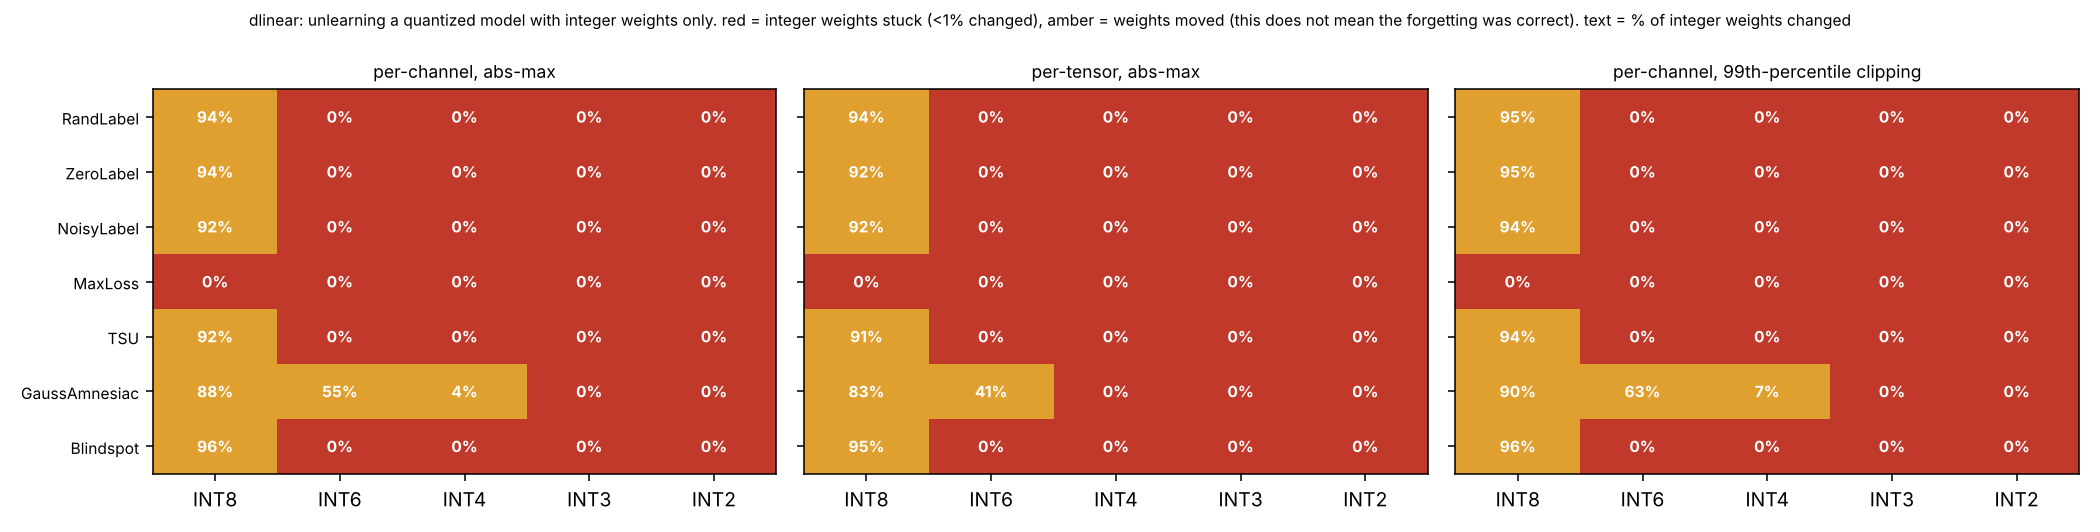
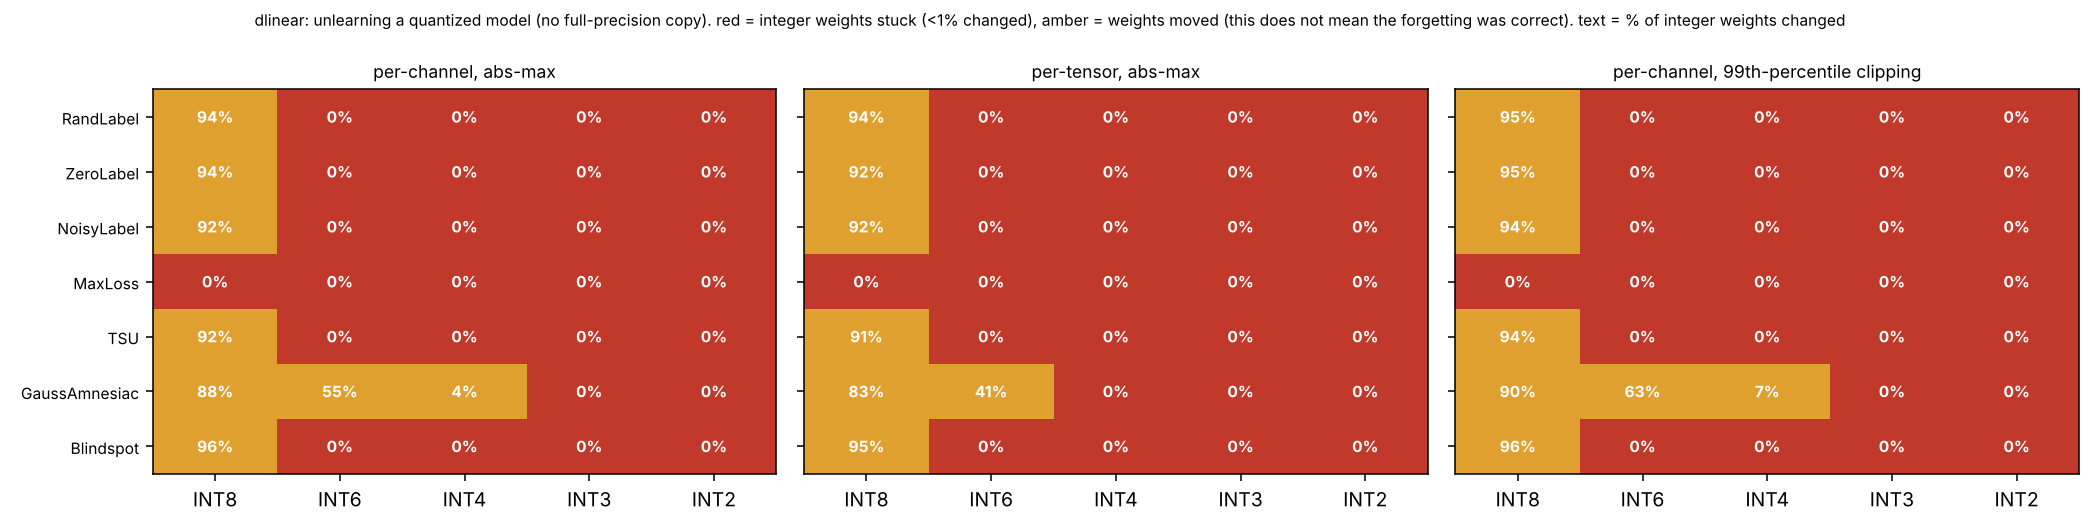
Rewrite README and results in plain words; add gaps document; rename code option
Claude-Session: https://claude.ai/code/session_01HaKQit1A86wBUSbgTCjcLp

Changed region(s): [[0.1238, 0.0301, 0.8976, 0.0602]]

diff --git a/src/unlearn.py b/src/unlearn.py
@@ -3,7 +3,7 @@ import config as C
 from .models import qlinears, make_model
 from .quantize import project
 
-def unlearn(m0, method, hp, D, arch, integer_only, seed):
+def unlearn(m0, method, hp, D, arch, quantized, seed):
     """Time-series unlearning methods, client 10 = forget set, the other 9 clients = retain set. hp = learning rate (noise level for GaussAmnesiac). Adam, 400 steps, batch 64.
       RandLabel      forget windows trained toward random targets, plus the retain loss                      (TS-Unlearn family of label-based baselines)
       ZeroLabel      forget windows trained toward zeros, plus the retain loss                               (same family)
@@ -12,10 +12,10 @@ def unlearn(m0, method, hp, D, arch, integer_only, seed):
       TSU            TS-Unlearn dual objective: 0.5 x retain loss + 0.5 x loss toward noisy forget targets   (fixed Pareto weight 0.5)
       GaussAmnesiac  Gaussian noise added to the weights (relative std = hp), then 200 retain-only repair steps
       Blindspot      distillation: stay close to the original model on retain windows, copy an untrained network on forget windows
-    integer_only=True : only the integer Linear weights may change; after every step they are snapped back onto the integer grid (scales fixed); biases / norms frozen.
-    integer_only=False: full-precision model, all parameters train."""
+    quantized=True : the model is the deployed quantized one and no full-precision copy exists. Only its integer Linear weights may change; after every step they are snapped back onto the integer grid (scales fixed); biases / norms frozen.
+    quantized=False: full-precision model (reference only), all parameters train."""
     m = copy.deepcopy(m0); torch.manual_seed(seed + 7); lr = 3e-4 if method == "GaussAmnesiac" else hp
-    params = [l.weight for l in qlinears(m)] if integer_only else list(m.parameters())
+    params = [l.weight for l in qlinears(m)] if quantized else list(m.parameters())
     for p in m.parameters(): p.requires_grad_(any(p is q for q in params))
     teacher = None
     if method == "Blindspot": torch.manual_seed(1000 + seed); teacher = make_model(arch).eval(); torch.manual_seed(seed + 7)
@@ -23,7 +23,7 @@ def unlearn(m0, method, hp, D, arch, integer_only, seed):
     if method == "GaussAmnesiac":
         with torch.no_grad():
             for p in params: p.add_(torch.randn_like(p) * hp * p.std())
-            if integer_only: project(m)
+            if quantized: project(m)
         steps = 200
     opt = torch.optim.Adam(params, lr); q0 = [l.weight.detach().clone() for l in qlinears(m0)]; orig = copy.deepcopy(m0).eval()
     for st in range(steps):
@@ -41,6 +41,6 @@ def unlearn(m0, method, hp, D, arch, integer_only, seed):
             loss = F.mse_loss(m(xr), to_r) + lret + F.mse_loss(m(xf), to_f)
         else: raise ValueError(method)
         opt.zero_grad(); loss.backward(); torch.nn.utils.clip_grad_norm_(params, 1.0); opt.step()
-        if integer_only: project(m)
+        if quantized: project(m)
     changed = sum((a != l.weight.detach()).sum().item() for a, l in zip(q0, qlinears(m))) / sum(a.numel() for a in q0)
     return m.eval(), changed

diff --git a/steps/04_quantize_unlearn.py b/steps/04_quantize_unlearn.py
@@ -1,4 +1,4 @@
-"""Train (done) -> quantize -> unlearn the quantized model using only its integer weights -> check.
+"""Train (done) -> quantize -> unlearn the quantized model (no full-precision copy) -> check.
    For each architecture, seed, quantization technique and bit width: quantize the original and the retrained model identically, run every unlearning method once
    (one fixed setting, no tuning), judge the model after the last step against the equally quantized retrained model. Full precision is run the same way as a reference."""
 import sys, pathlib; sys.path.insert(0, str(pathlib.Path(__file__).resolve().parents[1]))
@@ -15,9 +15,9 @@ w = csv.DictWriter(out, fieldnames=["arch", "seed", "tech", "bits", "method", "h
 def load(name): m = make_model(a.arch); m.load_state_dict(torch.load(C.CKPT / a.arch / f"seed{a.seed}_{name}.pt")); return m.eval()
 orig, retrained = load("original"), load("retrained")
 conds = [("fp", 32, orig, retrained, False)] + [(t, b, quantize(orig, t, b), quantize(retrained, t, b), True) for t in C.QUANT for b in C.BITS]
-for tech, bits, m0, g, integer_only in conds:
+for tech, bits, m0, g, quantized in conds:
     ref = reference(m0, g, D)
     for method, hp in C.METHODS.items():
-        m, ch = unlearn(m0, method, hp, D, a.arch, integer_only, a.seed); e = evaluate(m, ref, D)
-        w.writerow(dict(arch=a.arch, seed=a.seed, tech=tech, bits=bits, method=method, hp=hp, changed=ch if integer_only else "", gap=ref["gap"], **e)); out.flush()
+        m, ch = unlearn(m0, method, hp, D, a.arch, quantized, a.seed); e = evaluate(m, ref, D)
+        w.writerow(dict(arch=a.arch, seed=a.seed, tech=tech, bits=bits, method=method, hp=hp, changed=ch if quantized else "", gap=ref["gap"], **e)); out.flush()
     print(f"[{time.time()-t0:.0f}s] {a.arch} seed {a.seed} {tech} {bits}-bit done", flush=True)

diff --git a/steps/05_report.py b/steps/05_report.py
@@ -34,6 +34,6 @@ for arch in C.ARCHS:
         for i in range(len(meths)):
             for j in range(len(C.BITS)): ax.text(j, i, T[i][j], ha="center", va="center", color="white", fontsize=8, fontweight="bold")
         ax.set_xticks(range(len(C.BITS))); ax.set_xticklabels([f"INT{b}" for b in sorted(C.BITS, reverse=True)]); ax.set_yticks(range(len(meths))); ax.set_yticklabels(meths, fontsize=8); ax.set_title(C.QUANT[tech][0], fontsize=9)
-    fig.suptitle(f"{arch}: unlearning a quantized model with integer weights only. red = integer weights stuck (<1% changed), amber = weights moved (this does not mean the forgetting was correct). text = % of integer weights changed", fontsize=8)
+    fig.suptitle(f"{arch}: unlearning a quantized model (no full-precision copy). red = integer weights stuck (<1% changed), amber = weights moved (this does not mean the forgetting was correct). text = % of integer weights changed", fontsize=8)
     plt.tight_layout(); plt.savefig(C.FIG / f"{arch}.png", dpi=140); plt.close()
 open(C.RES / "RESULTS_TABLES.md", "w").write("\n".join(md)); print("\n".join(md[:60]))

diff --git a/config.py b/config.py
@@ -16,7 +16,7 @@ SEEDS = {"dlinear": [0, 1, 2], "mlp": [0, 1], "patchtst": [0]}        # MLP and 
 # ---- quantization: post-training, weights of every Linear layer, signed integers ----
 BITS = [8, 6, 4, 3, 2]
 QUANT = {"channel": ("per-channel, abs-max", False, None),                    # standard
-         "tensor": ("per-tensor, abs-max", True, None),                       # integer-only hardware style (one scale per layer)
+         "tensor": ("per-tensor, abs-max", True, None),                       # one scale per layer, common on small hardware
          "clip": ("per-channel, 99th-percentile clipping", False, 0.99)}      # outlier-clipping calibration used for time-series PTQ
 
 # ---- unlearning: time-series methods only, ONE fixed setting each (no search, no tuning), judged after the last step ----

diff --git a/docs/RESULTS.md b/docs/RESULTS.md
@@ -1,16 +1,19 @@
-# Results
+# Result
 
-Setup in `DESIGN.md`. Pipeline: train in full precision, quantize after training (3 techniques x INT8/6/4/3/2), unlearn the quantized model using only its integer weights, check. Seven time-series unlearning methods, each run once with one fixed setting, no tuning. DLinear 3 seeds, MLP 2 seeds, PatchTST 1 seed.
-Full tables: `../results/RESULTS_TABLES.md`. Per-run data: `../results/raw_*.csv`. Figures: `../figures/<model>.png`.
+## What we tried
+Take a time-series forecasting model, quantize it, then ask it to forget one client's data, using the unlearning methods from the time-series literature. No full-precision copy is available and no retraining from scratch is allowed. This is the situation of a model that is already deployed on a device.
 
-## What the data shows
-1. **Below INT8, the unlearning methods leave the integer weights unchanged.** At INT3 and INT2 all 7 methods leave every integer weight unchanged (0% changed), for all three quantization techniques and all three models. At INT4 and INT6, 6 of 7 methods leave the weights unchanged (INT4 per-tensor: 7 of 7 on DLinear and MLP). The cause is that a standard-size update is smaller than half a quantization step and is rounded back every step.
-2. **The one exception is Gaussian Amnesiac at INT6 and INT4.** Its integer weights do change, but only because the method adds noise to the weights itself; the repair steps that follow cannot move them. Its forget score stays near 0 (0.00 to 0.13), so it moved without forgetting.
-3. **INT8 is different:** 6 of 7 methods change 55 to 96% of the integer weights. MaxLoss stays at 0% because its fixed learning rate (1e-4) is below half a bin.
-4. **In full precision, none of the 7 methods meets the strict forgetting rule with these fixed settings** (forget score 0.8 to 1.2 and retain error at most 10% worse). They overshoot (RandLabel, ZeroLabel, MaxLoss, Blindspot), undershoot (NoisyLabel, TSU, Gaussian Amnesiac) or damage retain data. So moving at INT8 does not mean unlearning correctly.
+3 models (DLinear, MLP, PatchTST) x 3 ways of quantizing x 5 sizes (INT8, 6, 4, 3, 2) x 7 unlearning methods, each run once with one fixed setting. Setup and rules fixed in advance: `DESIGN.md`.
 
-## Table: methods stuck, per quantization technique and bit width
+## What we found
+**Below INT8, the existing time-series unlearning methods do not change the quantized model at all, so it cannot forget.**
 
+- At INT3 and INT2, all 7 methods change 0% of the model's integer weights, for every way of quantizing and every model.
+- At INT4 and INT6, 6 of the 7 methods change 0% of the weights (INT4 per-tensor: 7 of 7 on DLinear and MLP). The seventh, Gaussian Amnesiac, moves weights only through the noise it adds itself, and it does not forget (forget score 0.00 to 0.13).
+- At INT8 the weights do move (6 of 7 methods change 55 to 96%), but no method reaches the forgetting target, and none does in full precision either with these settings.
+- The way of quantizing does not matter. The cause is that one unlearning update is smaller than half a quantization step, so rounding undoes it.
+
+## Table: methods that changed nothing (out of 7), per way of quantizing and size
 **dlinear** (methods stuck out of 7; stuck = fewer than 1% of the integer weights changed)
 
 | Quantization technique | INT8 | INT6 | INT4 | INT3 | INT2 |
@@ -35,8 +38,11 @@ Full tables: `../results/RESULTS_TABLES.md`. Per-run data: `../results/raw_*.csv
 | per-tensor, abs-max | 1/7 | 6/7 | 6/7 | 7/7 | 7/7 |
 | per-channel, 99th-percentile clipping | 1/7 | 6/7 | 6/7 | 7/7 | 7/7 |
 
-## What this does and does not show
-- It shows: the time-series unlearning methods, used with fixed standard settings on a model quantized to INT6 or below, do not change the integer weights and so cannot unlearn. This holds across three models and three quantization techniques.
-- It does not show: that no setting can work. A different learning rate could produce bigger steps. The methods are my simplified re-implementations. The fixed settings are my choice.
-- It does not show that INT8 unlearning is correct: the methods move the weights but do not reach the forgetting target in full precision either.
-- One dataset, one forgotten client, simulated integer weights, 1 to 3 seeds.
+## What this supports
+See `GAPS.md`. In short: it supports the gap that no method exists to unlearn a quantized time-series model without a full-precision copy.
+
+## What this does not show
+- That no setting can ever work. A much larger learning rate can move the weights; we ran one fixed standard setting per method.
+- That INT8 unlearning is correct. The weights move, the forgetting target is not reached.
+- Results for other datasets, other forgotten clients, real hardware (the integers here are simulated), or methods outside the 7 tested.
+- The methods are our simplified versions of the papers. Seeds: DLinear 3, MLP 2, PatchTST 1.

diff --git a/docs/DESIGN.md b/docs/DESIGN.md
@@ -1,13 +1,13 @@
 # Design (written before the quantize-and-unlearn runs)
 
 ## Question
-If a time-series forecasting model has already been quantized to integers, can the unlearning methods used in the time-series unlearning literature remove one client's data using only the integer weights?
+If a time-series forecasting model has already been quantized, can the unlearning methods used in the time-series unlearning literature make it forget one client's data, with no full-precision copy and no retraining from scratch?
 
 ## Pipeline
 1. Data: Electricity (hourly, 20 clients used). Clients 1 to 10 train the model, client 10 is the one to forget, clients 11 to 20 are never trained on (non-members for the attack). Look-back 168 h, forecast 24 h. Time split 70/10/20, per-client z-score from the training period.
 2. Train, in full precision: an **original** model (all 10 clients) and a **retrained** model (client 10 left out, the ideal forgotten model). Models: DLinear, MLP, PatchTST. Seeds: DLinear 3, MLP 2, PatchTST 1 (training cost).
 3. Quantize, post-training, to signed integers: weights of every Linear layer, round-to-nearest, bits 8, 6, 4, 3, 2. Three techniques: per-channel abs-max, per-tensor abs-max (one scale per layer, integer-only hardware style), per-channel with 99th-percentile clipping. Biases, LayerNorm and position tables stay in full precision. The original and the retrained model are quantized identically.
-4. Unlearn the quantized original **using only its integer weights**: only the integer Linear weights may change, after every step they are snapped back to the integer grid, scales stay fixed, biases and norms are frozen.
+4. Unlearn the quantized original. No full-precision copy is used: only the Linear weights (integers) may change, after every step they are snapped back to the integer grid, scales stay fixed, biases and norms are frozen.
 5. Check against the equally quantized retrained model.
 
 ## Methods (time-series unlearning literature only)

diff --git a/docs/GAPS.md b/docs/GAPS.md
@@ -1,0 +1,10 @@
+# Gaps and what this proof of concept shows
+
+| Gap | Statement | What supports it here |
+|---|---|---|
+| **Core 1** | There is no framework to unlearn a quantized time-series model without keeping a full-precision copy and without retraining from scratch. | **Supported.** The literature on unlearning for time series (TS-Unlearn, task-aware unlearning) is full precision only. The literature on unlearning for quantized models is images and language models only. In our runs the time-series methods cannot change a quantized model below INT8. |
+| **Core 2** | Existing unlearning methods are not shown to work on quantized time-series models. | **Supported.** 7 time-series methods, 3 models, 3 ways of quantizing, 5 sizes: below INT8 the weights do not change; at INT8 they change but the forgetting target is not reached. |
+| **Supporting 1** | Fast, edge-feasible unlearning for time series is not addressed. | **Motivated, not measured.** The result shows a deployed quantized model cannot be updated with standard unlearning steps. Time and memory cost were not measured here. |
+| **Supporting 2** | Checking that forgetting happened on the quantized model, without a retrained reference, is not addressed. | **Motivated, not measured.** Every check in this proof of concept compares against a retrained model, which a deployed device would not have. Reference-free checking was not tested. |
+
+The first two gaps are tested by this work. The last two are the reasons the work matters and are left for the framework.

diff --git a/README.md b/README.md
@@ -1,5 +1,12 @@
-# Unlearning a quantized time-series model (proof of concept)
-Does time-series unlearning still work after the model has been quantized to integers? See `docs/DESIGN.md` for the setup and the rules fixed in advance, and `results/RESULTS_TABLES.md` for the tables.
+# Unlearning a quantized time-series model: proof of concept
+
+**What we are doing.** Showing that there is no way today to make a quantized time-series forecasting model forget one client's data when no full-precision copy is available.
+
+**What we found.** Below INT8, the existing time-series unlearning methods leave the quantized model unchanged, so nothing is forgotten. This holds for 3 models, 3 ways of quantizing, 5 sizes and 7 methods.
+
+- Setup and rules fixed in advance: `docs/DESIGN.md`
+- Result and tables: `docs/RESULTS.md`, `results/RESULTS_TABLES.md`
+- How this supports the four gaps: `docs/GAPS.md`
 
 ```
 python steps/01_download.py
